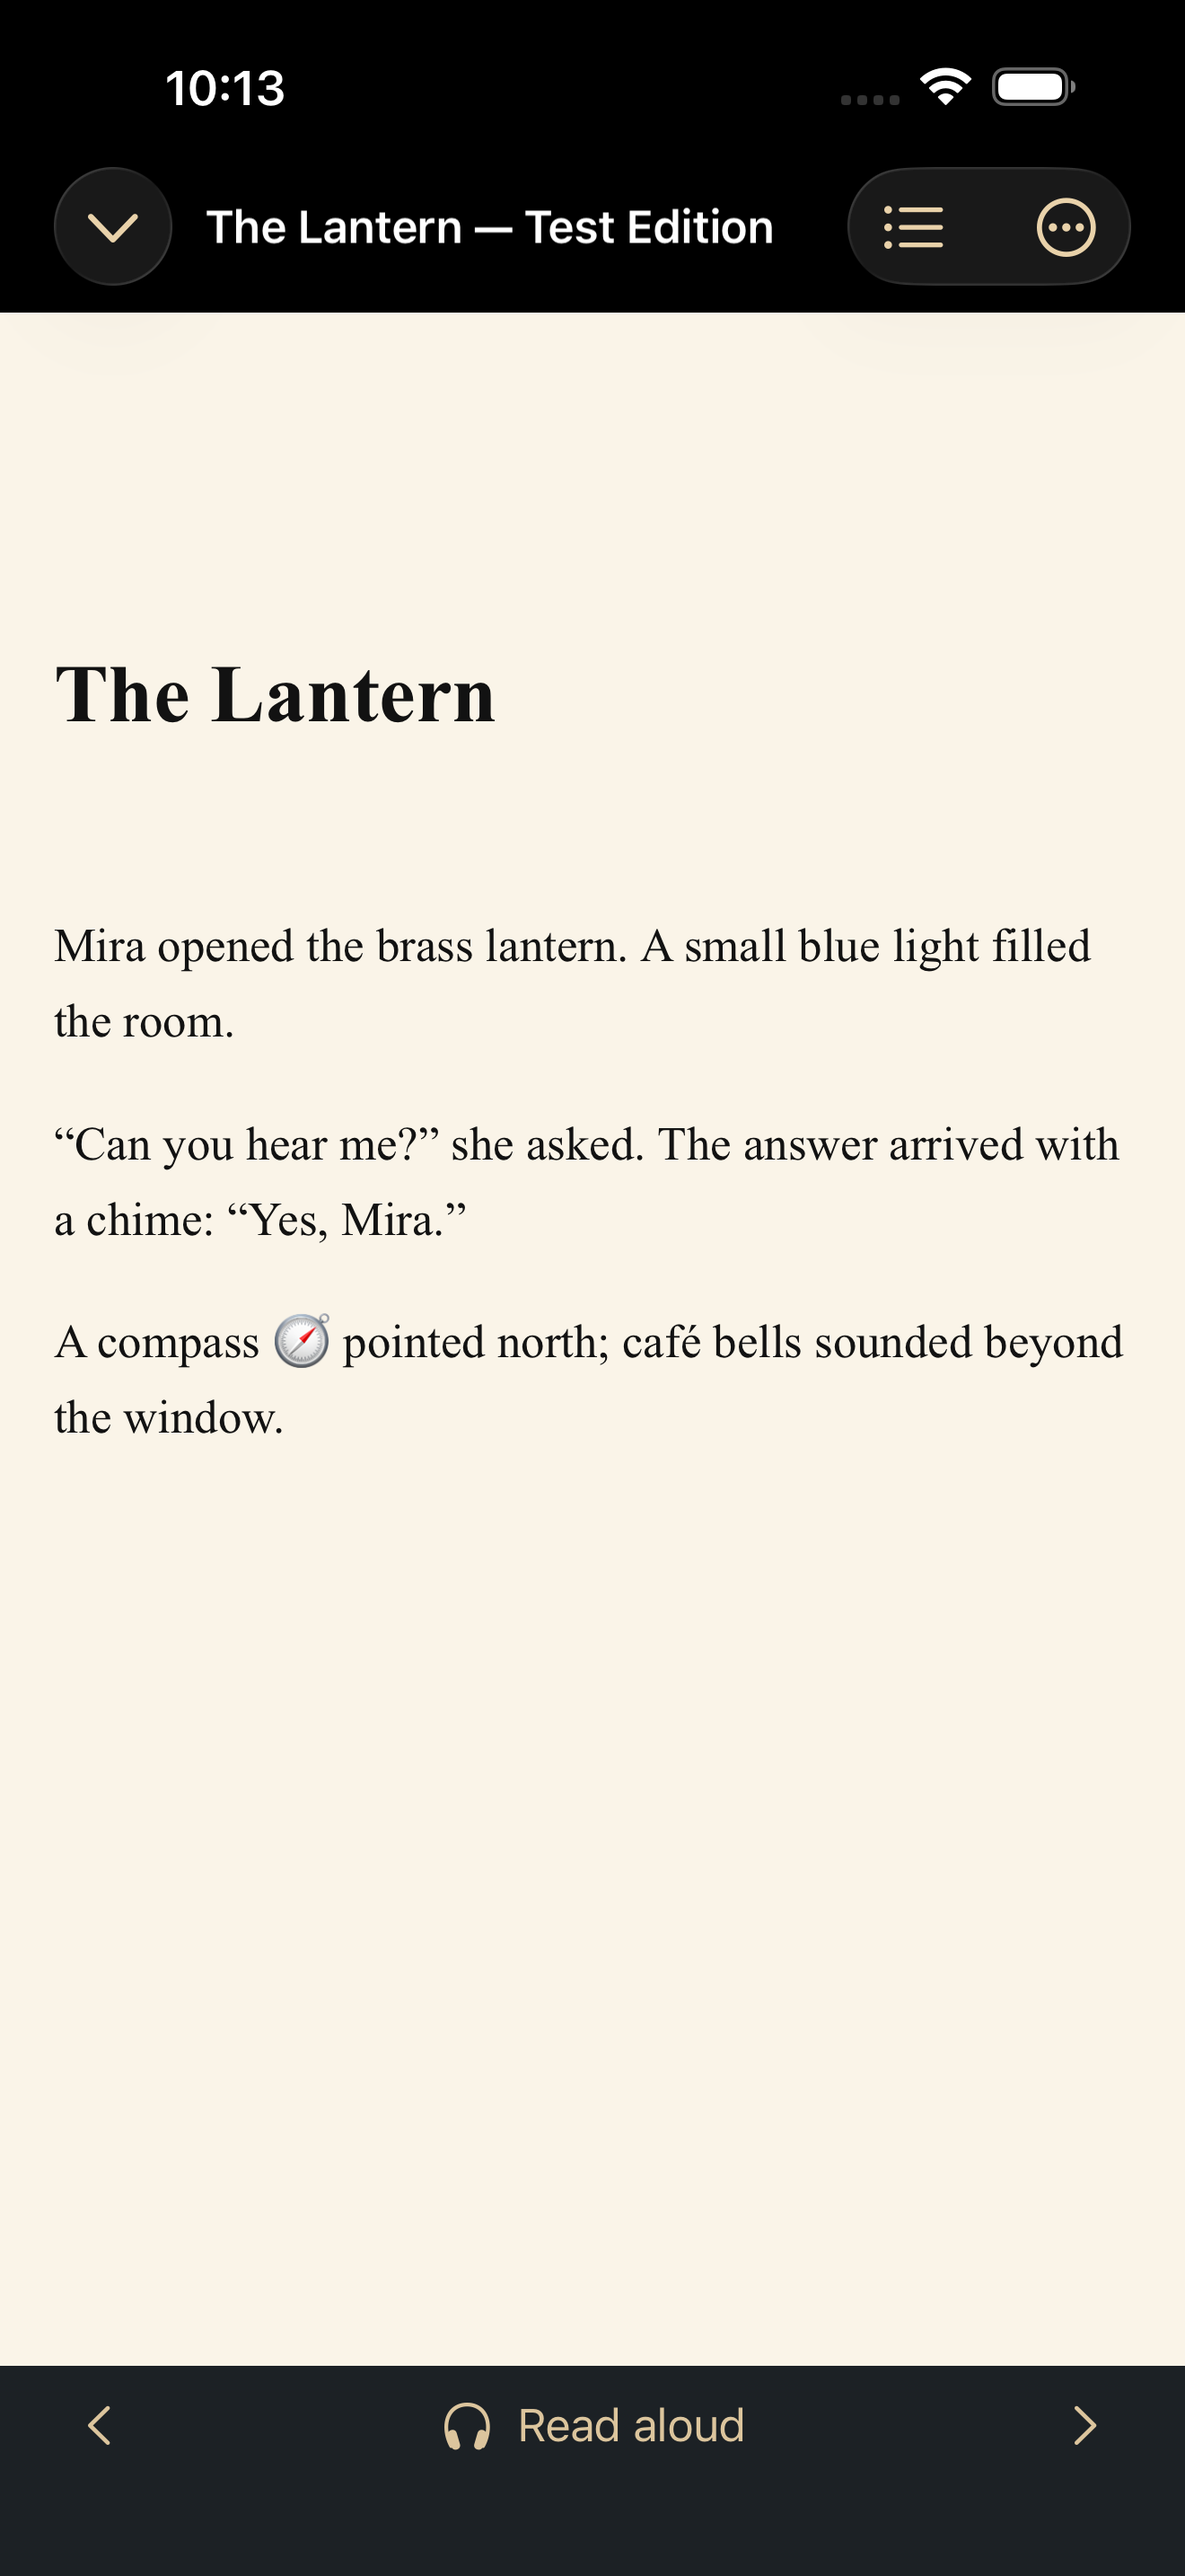
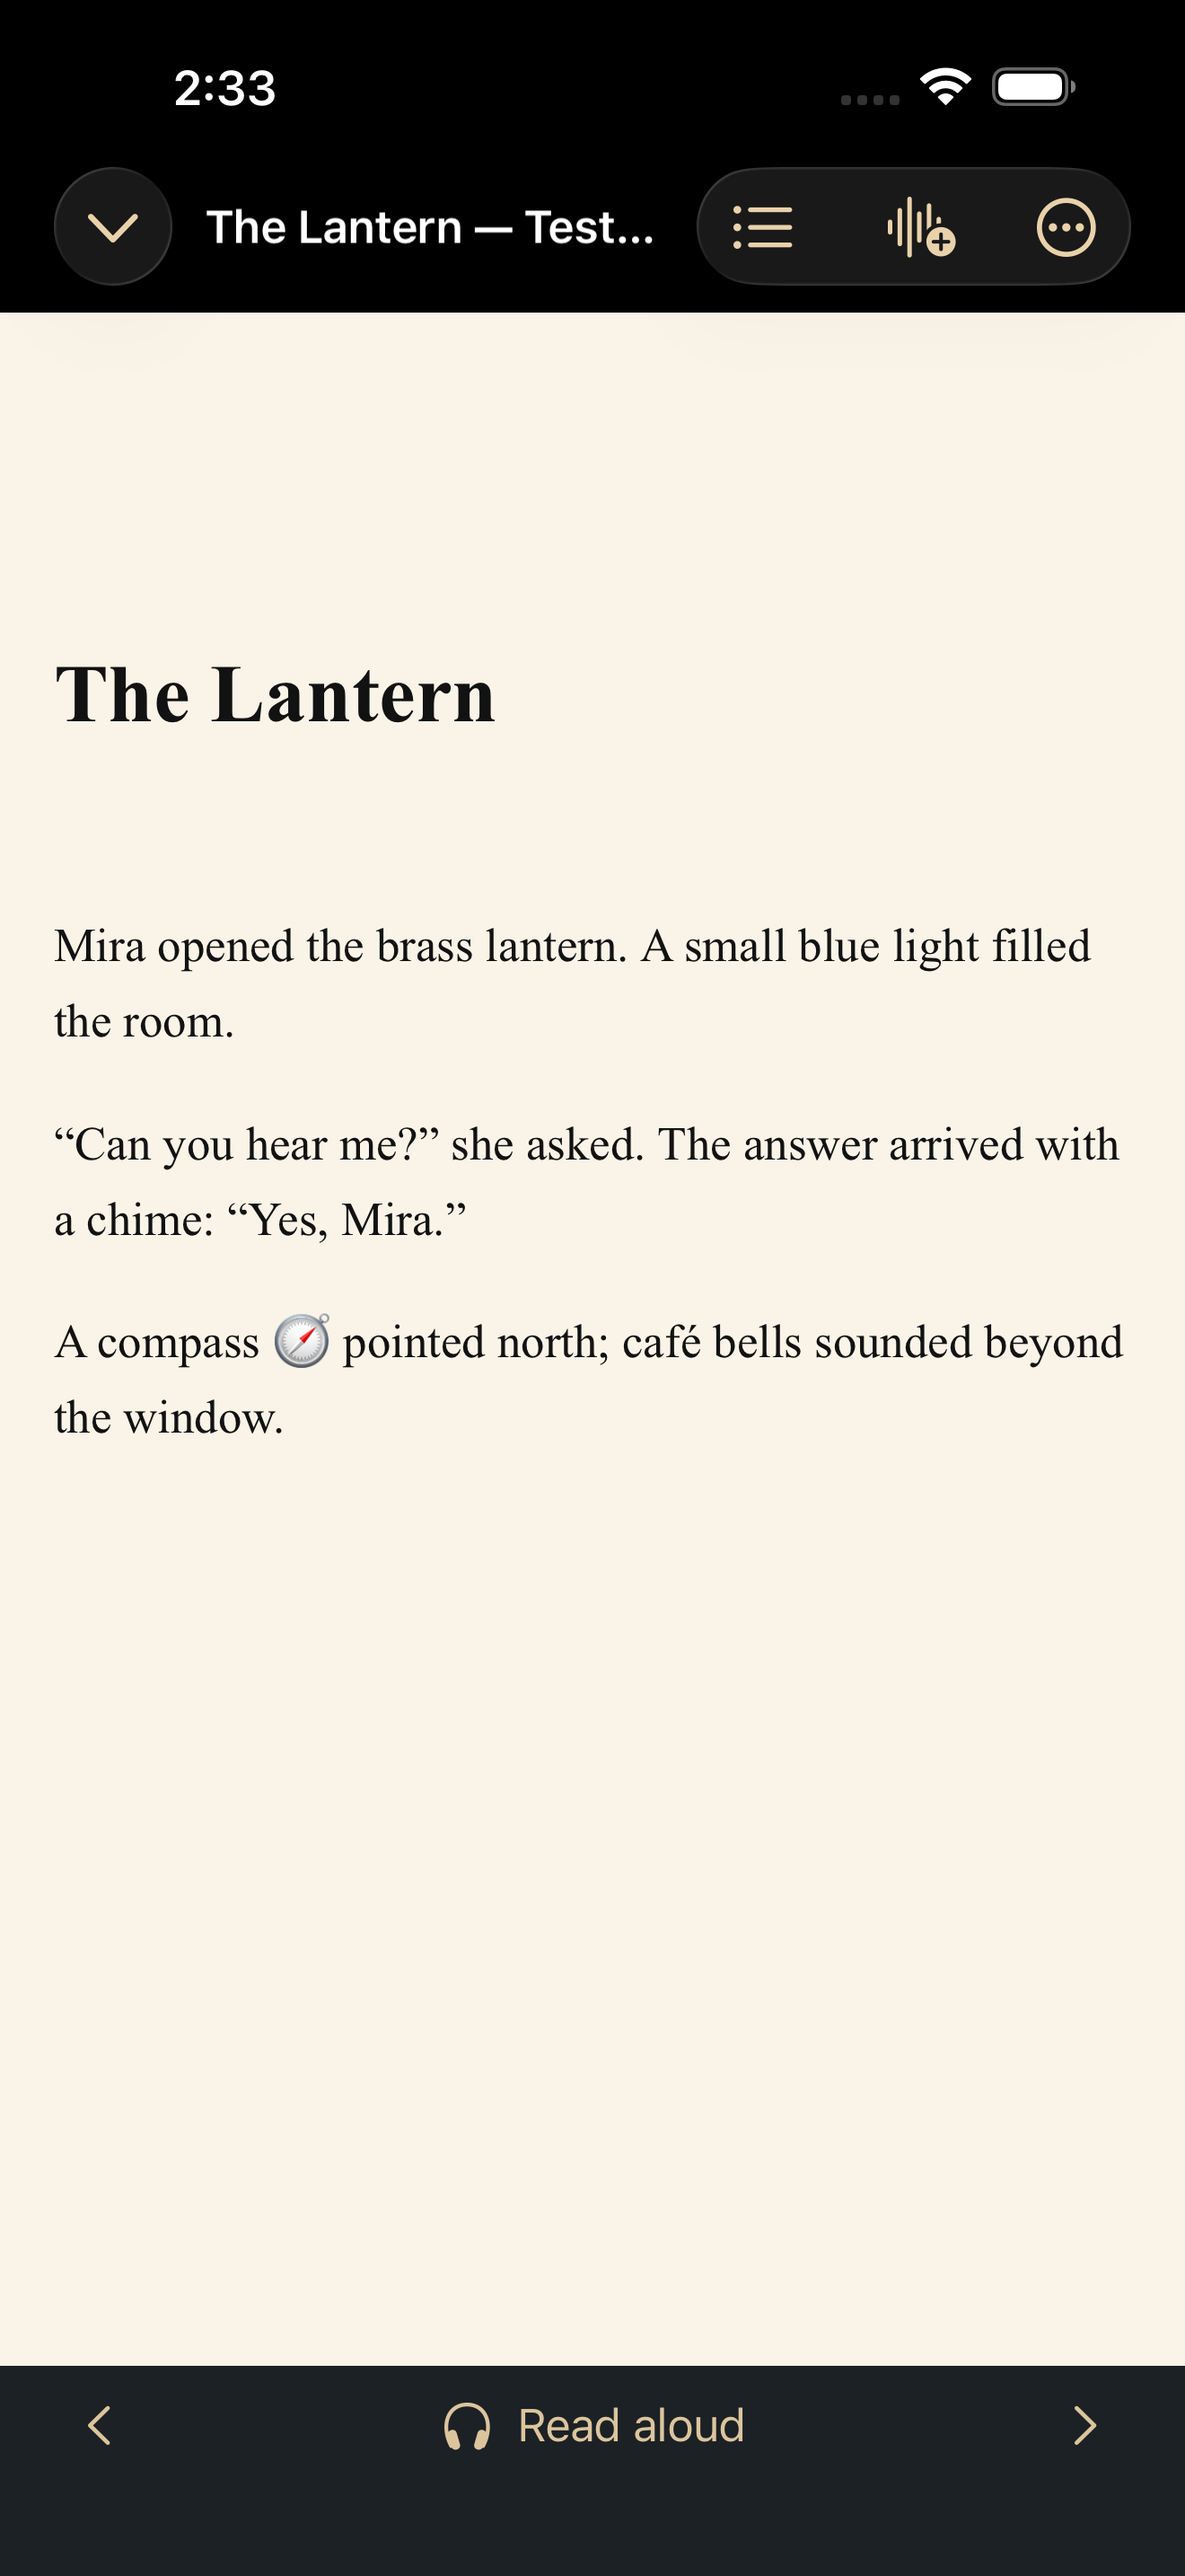
Document and verify published Kyon reader narration preview

Changed region(s): [[0.528, 0.0621, 0.8076, 0.1241], [0.1553, 0.031, 0.2485, 0.0621]]

diff --git a/docs/VERIFICATION.md b/docs/VERIFICATION.md
@@ -43,6 +43,9 @@ CI uses standard GitHub-hosted runners. Untrusted pull requests have no access t
 
 ## Native and published release verification
 
+- Final source `6e08c50`: [native run 37089574808](https://github.com/mahmud-karim/BookPocket-Open/actions/runs/37089574808) passed 19 unit tests and three UI tests. Coverage includes real WebKit glyph clipping/font reflow, partial Unicode scalar ranges, table-of-contents chapter boundaries across resources, ambiguous illustration rejection, exact Kyon inventory selection, submit/retry capability checks, durable request identity, ranged asset validation, shared cached-file preservation and a real Readium current-page preview. Root inspected the final preview, reader and playing-tabs screenshots. The preview screenshot uses an unpaired simulator; it does not prove real Kyon synthesis on an iPhone.
+- [Final cross-platform run 37089574761](https://github.com/mahmud-karim/BookPocket-Open/actions/runs/37089574761) passed Windows, Ubuntu and Studio at the same source. The Windows 0.1.1 package inputs are byte-identical to successful package source `651a214`; later changes affect native iOS and documentation.
[1 lines of base64/hex data omitted]
 - [Native run 37070374634](https://github.com/mahmud-karim/BookPocket-Open/actions/runs/37070374634) passed ten unit tests and one UI test, including shared API decoding, Unicode offsets, persistent request identity, percentage-to-Readium font conversion, visibly painted EPUB text, chapter navigation and saved-chapter reopening. Root inspected Library, Studio and cream-reader screenshots. The earlier blank view was a real bug: Readium expected 1.1 for 110% text, while the application supplied 110. The conversion is now tested.
 - The same run produced an unsigned ARM64 iPhoneOS IPA. Independent download verification passed ZIP integrity, bundle ID `org.bookpocket.open`, app version 0.1.0, build 1 and minimum iOS 18.0. Direct executable inspection confirmed no code-signature load command and no provisioning profile. Native build inputs at `b48c56b` are byte-identical to the frozen release source `2956fac`.
 - [Final cross-platform checks 37070775027](https://github.com/mahmud-karim/BookPocket-Open/actions/runs/37070775027) passed Windows, Ubuntu and studio on `2956fac`. [Final installer run 37070774054](https://github.com/mahmud-karim/BookPocket-Open/actions/runs/37070774054) passed the installed/tray/media/runtime and lifecycle gates. The portable ZIP passed independent CRC, safe-path, required-component and personal-data exclusion inspection. Installer Authenticode status is NotSigned.
@@ -50,20 +53,21 @@ CI uses standard GitHub-hosted runners. Untrusted pull requests have no access t
 
 ## Physical iPhone and broader reader gates still open
 
+- The new reader page/chapter Kyon flow still requires physical iPhone confirmation: captured words, generated voice, automatic download, reader playback/highlighting, recent-job recovery and offline replay. Companion 0.1.1 is already installed on the user's PC with its original pairing, library, TLS identity and finished audio preserved. Real installed-runtime synthesis passed separately as described above.
[1 lines of base64/hex data omitted]
 
 - [Native navigation regression run 37084407535](https://github.com/mahmud-karim/BookPocket-Open/actions/runs/37084407535) passed eleven unit tests and two UI tests on `2594dec`. Actual Apple speech in the Simulator continued while switching Library, Studio and Listen; playing and paused mini-player controls remained visible, hittable, on screen and above all native tabs. Measured interactive-row bottom was 862.67 points, with native tab buttons beginning at 877 points on the selected simulator. Root inspected both screenshots. An earlier assertion incorrectly measured the decorative safe-area background; the corrected test retains exact non-overlap checks on interactive controls and preserves the reader's painted-text check.
-- The user subsequently reported successful offline reading, bookmark and reading-position persistence across font changes/rotation/relaunch, and automatic companion reconnection after restarting the phone app. These are physical-device user reports; they do not establish uninterrupted long-form audio playback.
+- The user subsequently reported successful repaired-book import, offline reading, bookmark and reading-position persistence across font changes/rotation/relaunch, and automatic companion reconnection after restarting the phone app. These are physical-device user reports; they do not establish broader import compatibility or uninterrupted long-form audio playback.
 - An installed companion integration check used an existing external VoiceStudio profile through the OmniVoice adapter: one passage completed in 7.781 seconds, producing 18.04 seconds of mono 24 kHz WAV. Stored checksum and complete FFmpeg decode passed. Companion restart preserved the existing library, paired-device record and TLS identity. This is a short functional check; listening quality and downloaded playback on the phone remain separate gates. Private source text, profile details and audio were excluded from public source and releases.
 
 - [Native hotfix run 37080483932](https://github.com/mahmud-karim/BookPocket-Open/actions/runs/37080483932) passed eleven unit tests and one reader UI test on `9407555`. The new incomplete-EPUB test verifies actionable error wording, unchanged source bytes, unchanged persisted library and removal of partial import directories. Root inspected the reader screenshot with visibly painted fixture text.
[2 lines of base64/hex data omitted]
 - The user reported that the original preview opened on their iPhone and that pairing was approved. The running installed companion independently showed a paired device. This establishes startup and initial pairing; certificate-tamper rejection, saved Keychain credentials after restart and subsequent download/playback checks remain separate gates.
 
 - Inspect dark/light/cream modes, small/large physical devices and enlarged text; simulator screenshots above cover their stated fixture and configuration only.
 - Verify broader EPUB formatting, Files/share import, highlights/search and interrupted downloads. The successful book-opening and offline/bookmark/position user reports above cover their stated checks only.
 - Verify certificate-tamper rejection, interrupted-download recovery, original-text alignment and offline listening. Successful pairing after app restart was reported above; broader Keychain lifecycle checks remain open.
-- Physical iPhone: Files import, the new mini-player layout, downloaded audio, Bluetooth/lock-screen controls, audio interruptions/reconnection and at least one hour of screen-locked playback remain unverified. Initial LiveContainer startup, paired-app restart and the stated offline reader checks were reported successful as described above.
+- Physical iPhone: broader Files/share import compatibility, the new mini-player layout, downloaded audio, Bluetooth/lock-screen controls, audio interruptions/reconnection and at least one hour of screen-locked playback remain unverified. Initial LiveContainer startup, repaired-book import, paired-app restart and the stated offline reader checks were reported successful as described above.
 
 ## Remaining product-level validation
 

diff --git a/README.md b/README.md
@@ -2,7 +2,7 @@
 
 A local-first EPUB reader and audiobook studio. Read on iPhone, generate narration on your Windows PC, and keep your original books and audio.
 
-**Development preview available:** [download the latest unsigned iOS IPA (0.1.2)](https://github.com/mahmud-karim/BookPocket-Open/releases/tag/v0.1.2-preview.1) and [the compatible Windows installer (0.1.0)](https://github.com/mahmud-karim/BookPocket-Open/releases/tag/v0.1.0-preview.1). Published downloads were retrieved and checksum-verified. The iOS update keeps bottom navigation accessible during narration and includes the incomplete-EPUB import fix. See [the verification ledger](docs/VERIFICATION.md) for tested behavior and [the physical iPhone check](docs/DEVICE-CHECK.md) for the remaining device gates.
+**Development preview available:** [download the latest unsigned iOS IPA (0.1.3)](https://github.com/mahmud-karim/BookPocket-Open/releases/download/v0.1.3-preview.1/BookPocketOpen.ipa) and [the compatible Windows installer (0.1.1)](https://github.com/mahmud-karim/BookPocket-Open/releases/download/v0.1.3-preview.1/BookPocketOpen-Setup-x64.exe). Published downloads were retrieved and checksum-verified; [release notes and checksums](https://github.com/mahmud-karim/BookPocket-Open/releases/tag/v0.1.3-preview.1) are available together. Generate the current page or chapter with the PC's external OmniVoice Kyon profile directly from the reader. This includes the bottom-navigation and incomplete-EPUB import fixes. See [the verification ledger](docs/VERIFICATION.md) for tested behavior and [the physical iPhone check](docs/DEVICE-CHECK.md) for the remaining device gates.
 
 ## Obsidian in the actual app
 
@@ -11,15 +11,19 @@ Simulator screenshots show the original public test book. These are rendered app
 <p>
 <img src="docs/screenshots/ios-library.png" alt="Native Obsidian library" width="220">
 <img src="docs/screenshots/ios-reader.png" alt="Native cream EPUB reader" width="220">
+<img src="docs/screenshots/ios-page-narration.png" alt="Exact page narration preview with Kyon and OmniVoice" width="220">
 <img src="docs/screenshots/ios-studio.png" alt="Native Obsidian audiobook studio" width="220">
 <img src="docs/screenshots/ios-playing-tabs.png" alt="Narration controls above accessible native tabs" width="220">
 </p>
+
+The narration screenshot uses an unpaired simulator. A paired phone exposes **Generate with Kyon** in this panel.
 
 ![Windows Obsidian library](docs/screenshots/windows-library.png)
 
 ## The experience
 
 - Native SwiftUI iOS reader using Readium: EPUB and text import, offline books, reading preferences, navigation, bookmarks, highlights, and Apple text-to-speech.
+- Generate the current visible page or table-of-contents chapter from the reader with the PC's external OmniVoice Kyon profile. Preview the exact source text, follow durable progress, and download finished narration for offline playback.
 - Windows companion and an Obsidian desktop studio: local library, durable narration jobs, voice collection, device approval, and audio exports.
 - Managed Kokoro preset narration and Qwen3-TTS voice cloning, installed separately. Optional integration with an existing VoiceStudio service.
 - Full-cast narration from exact source passages, with editable voices and explicit review of model suggestions.
